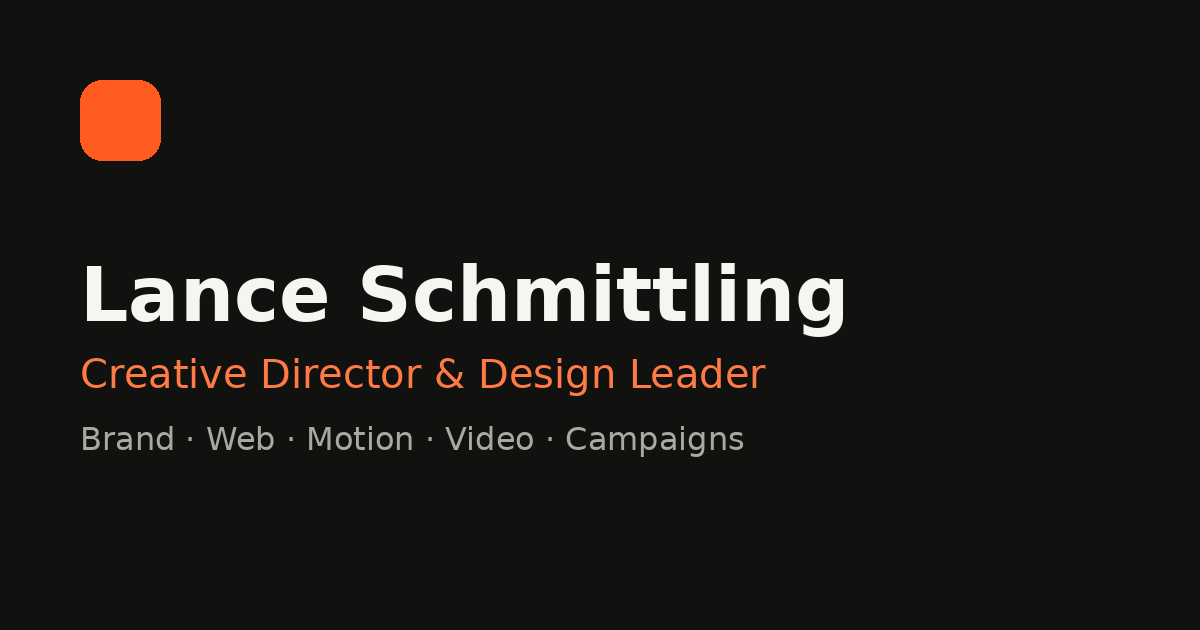
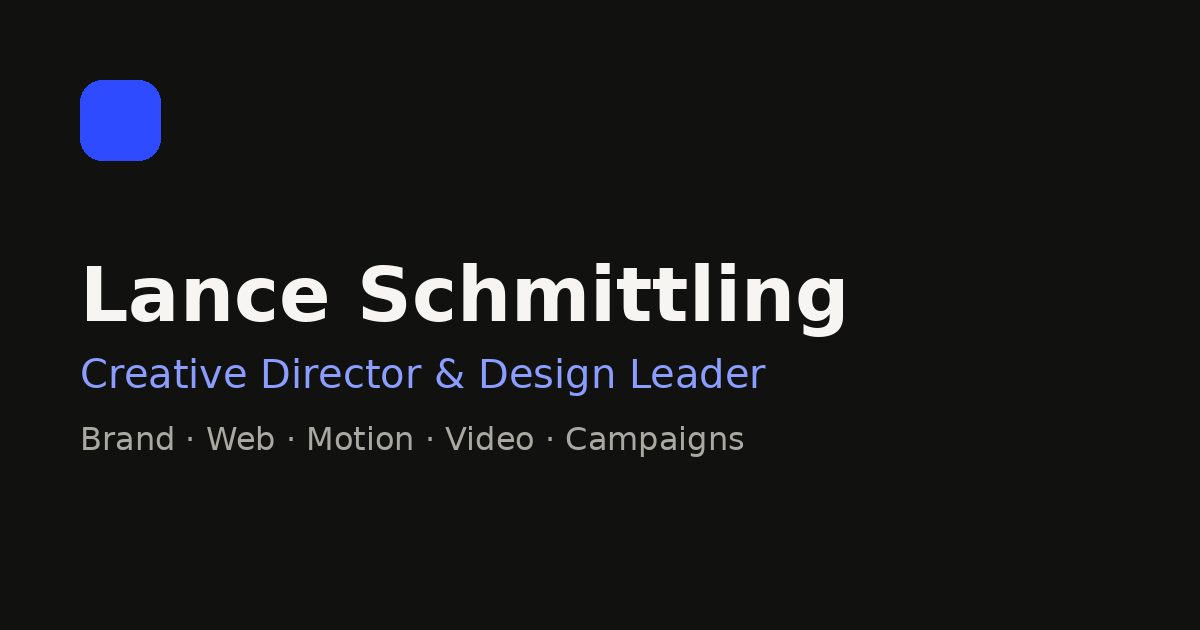
Switch the accent color from orange to cobalt blue
Accent fill #2f4bff with white text (5.9:1), hover #1f3be6, accent text
#2a43e0 on light backgrounds (6.5:1), and #8b9dff for dark mode and the dark
'Let's talk' panel (7+:1). Updates the favicon, social share image, and
README color notes.

Claude-Session: https://claude.ai/code/session_01UTgP2WmN5pm9DVpAWjgWUi

Changed region(s): [[0.0617, 0.573, 0.6475, 0.6333], [0.0617, 0.1206, 0.1542, 0.2714]]

diff --git a/src/styles/global.css b/src/styles/global.css
@@ -100,12 +100,14 @@
   --ink: #111110;
   --body: #383835;
   --muted: #64635d;
-  /* Accent fill (buttons, dots, selection). Ink text on it passes contrast. */
-  --accent: #ff5b1f;
-  --accent-strong: #ff4708;
-  --on-accent: #111110;
-  /* Accent used as text on the canvas: darker so it passes 4.5:1. */
-  --accent-ink: #c2370a;
+  /* Cobalt accent fill (buttons, dots, selection). White text on it passes contrast. */
+  --accent: #2f4bff;
+  --accent-strong: #1f3be6;
+  --on-accent: #ffffff;
+  /* Accent used as text on the canvas: slightly deeper so it passes 4.5:1. */
+  --accent-ink: #2a43e0;
+  /* Accent used as text on dark panels (the footer "Let's talk" panel). */
+  --accent-on-night: #8b9dff;
   --inverse: #121211;
   --on-inverse: #fafaf7;
   --night: #121211;
@@ -128,7 +130,7 @@
   --ink: #f4f3ee;
   --body: #cfcec7;
   --muted: #9d9c95;
-  --accent-ink: #ff7a45;
+  --accent-ink: #8b9dff;
   --inverse: #f4f3ee;
   --on-inverse: #121211;
   --night: #171716;
@@ -241,7 +243,7 @@
 
   .bg-night .highlight,
   .on-night .highlight {
-    color: var(--accent);
+    color: var(--accent-on-night);
   }
 
   .filter-chip {

diff --git a/README.md b/README.md
@@ -137,7 +137,7 @@ Each has its own headline, three proof points, and the projects tagged with matc
 
 ### Colors, type, and logo
 
-- Colors: the variables at the top of `:root` in `src/styles/global.css`. `--accent` is the orange fill; `--accent-ink` is the darker version used for text so it stays readable.
+- Colors: the variables at the top of `:root` in `src/styles/global.css`. The accent is cobalt blue: `--accent` is the fill for buttons, `--accent-ink` is the version used for text on light backgrounds, and `--accent-on-night` is the lighter version for dark panels. Dark mode overrides `--accent-ink` under `:root.dark`.
 - Type: Albert Sans (variable, all weights plus italics), self-hosted in `public/fonts/albert-sans/` and set as `--font-sans` in `src/styles/global.css`.
 - Logo: the "LS" monogram in `src/components/ui/Logomark.astro` and `public/favicon.svg`.
 
